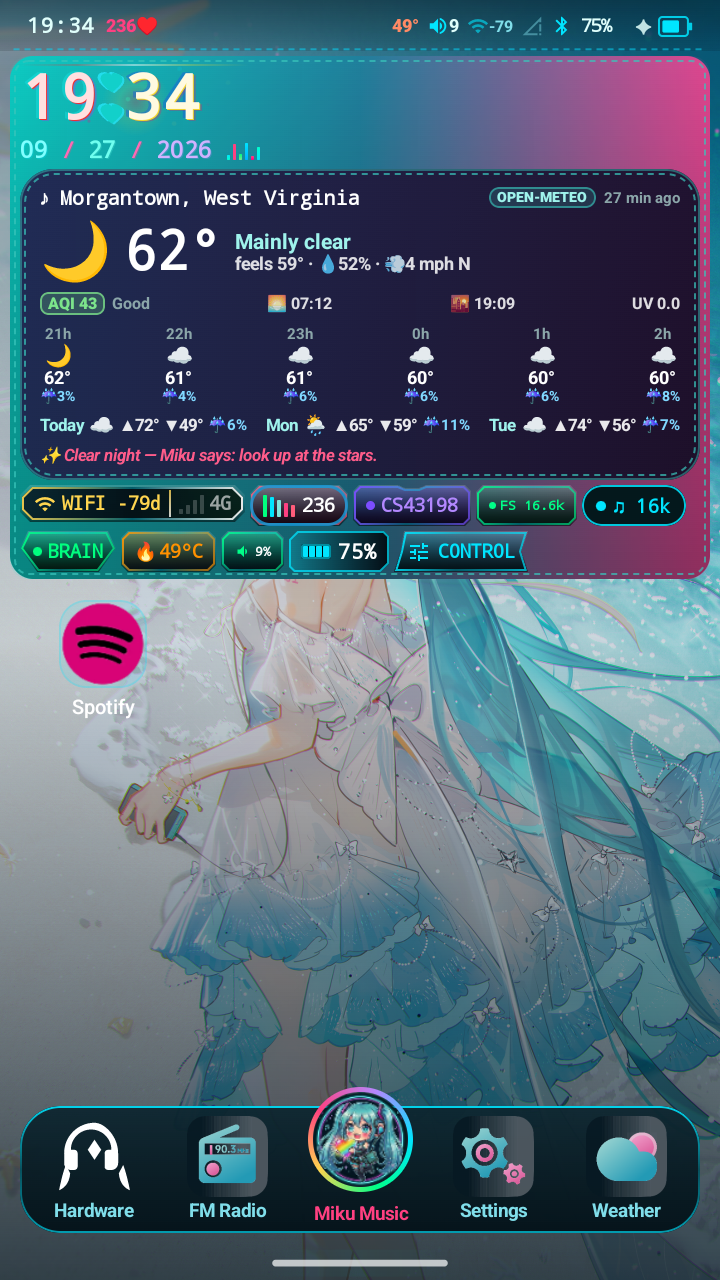
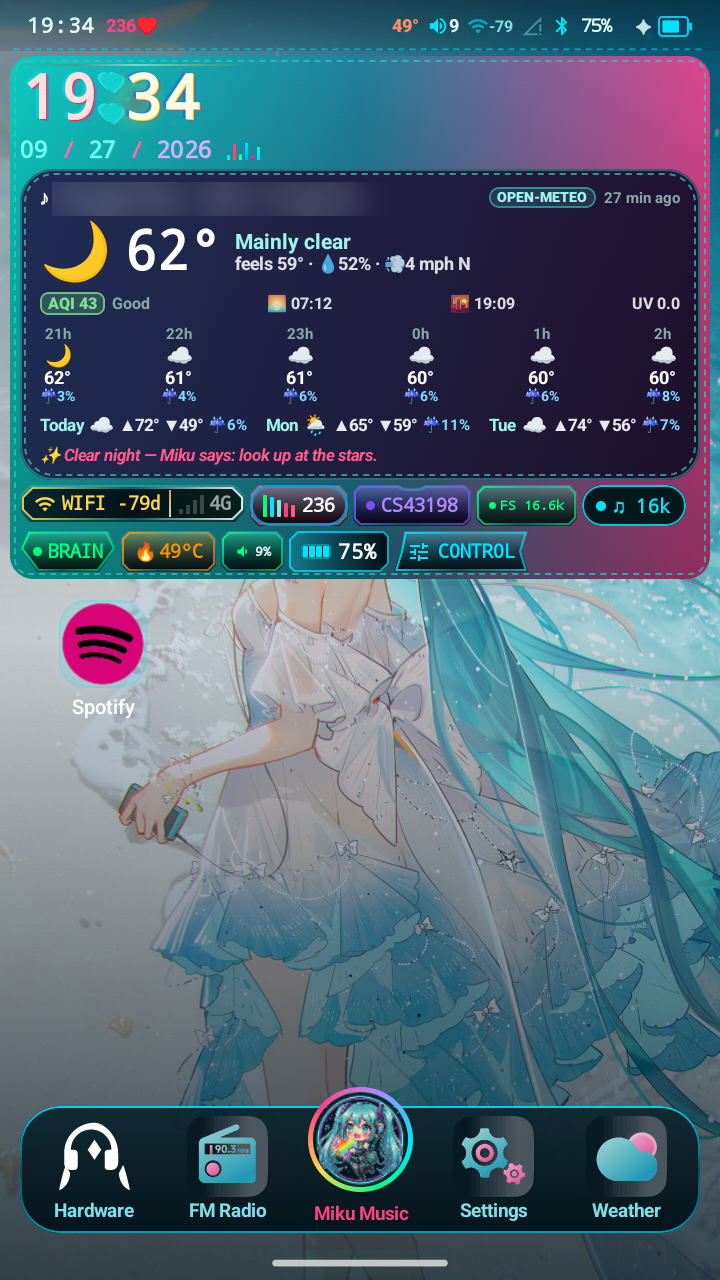
Blur PII out of the screenshots, including one already published
09-launcher-home.png has been live in the README hero since the press-kit commit
with the author's town readable in the weather tile. That is now blurred in
place. The new network observatory capture has its SSIDs, BSSID, IPv4, gateway
and DNS resolvers blurred before it ever goes up.

tools/blur_pii.py is the helper rather than a one-off edit, so the same regions
can be stripped from a fresh capture next time instead of being redacted by
hand. It downscales 6x before the Gaussian, because a plain blur at this radius
still leaves high-contrast terminal-style text guessable.

Adds the lockscreen and network observatory to the gallery. The lockscreen shot
happens to show the BPM badge reading a dash, which is the honest no-data state
the contributing rules ask for.

Author: sworrl <agent.jearl@gmail.com>

Changed region(s): [[0.0917, 0.125, 0.2444, 0.1875], [0.3667, 0.125, 0.4889, 0.1875], [0.275, 0.125, 0.3361, 0.1875]]

diff --git a/tools/blur_pii.py b/tools/blur_pii.py
@@ -1,0 +1,30 @@
+#!/usr/bin/env python3
+"""Blur named rectangles in a screenshot, leaving the rest of the image untouched.
+
+Used to strip PII (SSIDs, BSSIDs, IP addresses, the user's town) out of the M500
+screenshots that go in the public README, without flattening the whole panel to a
+grey box. A heavy Gaussian over just the text keeps the layout, the colours and the
+component shapes readable, which is the point of the screenshot.
+"""
+import sys
+from PIL import Image, ImageFilter
+
+def blur_regions(src, dst, boxes, radius=14):
+    im = Image.open(src).convert("RGB")
+    for (x0, y0, x1, y1) in boxes:
+        x0, y0 = max(0, x0), max(0, y0)
+        x1, y1 = min(im.width, x1), min(im.height, y1)
+        if x1 <= x0 or y1 <= y0:
+            continue
+        region = im.crop((x0, y0, x1, y1))
+        # Blur at 4x downscale first: a plain Gaussian at this radius still leaves
+        # letter shapes guessable on high-contrast terminal-style text.
+        w, h = region.size
+        small = region.resize((max(1, w // 6), max(1, h // 6)), Image.BILINEAR)
+        region = small.resize((w, h), Image.NEAREST).filter(ImageFilter.GaussianBlur(radius))
+        im.paste(region, (x0, y0))
+    im.save(dst)
+    print(f"wrote {dst}  ({len(boxes)} regions)")
+
+if __name__ == "__main__":
+    print("import and call blur_regions()")

diff --git a/README.md b/README.md
@@ -189,9 +189,13 @@ digit code.
 
 <p align="center">
   <img src="docs/screenshots/09-launcher-home.png" width="30%" alt="Launcher home with clock and weather tile">
-  <img src="docs/screenshots/08-bpm-game.png" width="30%" alt="BPM game note highway">
-  <img src="docs/screenshots/04-library.png" width="30%" alt="Library view">
+  <img src="docs/screenshots/14-lockscreen.png" width="30%" alt="Lockscreen: clock, hourly forecast strip, transport and a BPM badge reading a dash because the tempo is not known">
+  <img src="docs/screenshots/13-network-observatory.png" width="30%" alt="Network observatory: link rate, signal, channel and the scan list">
 </p>
+
+Network names, addresses and the town are blurred in these captures. `tools/blur_pii.py` is the
+helper that does it, so the same regions can be stripped again from a fresh screenshot rather than
+being redacted by hand.
 
 **Weather and location.** Open-Meteo for forecast, with real AQI. The interesting part is location.
 The M500 has no Google location stack worth relying on, so the launcher does its own Wi-Fi
